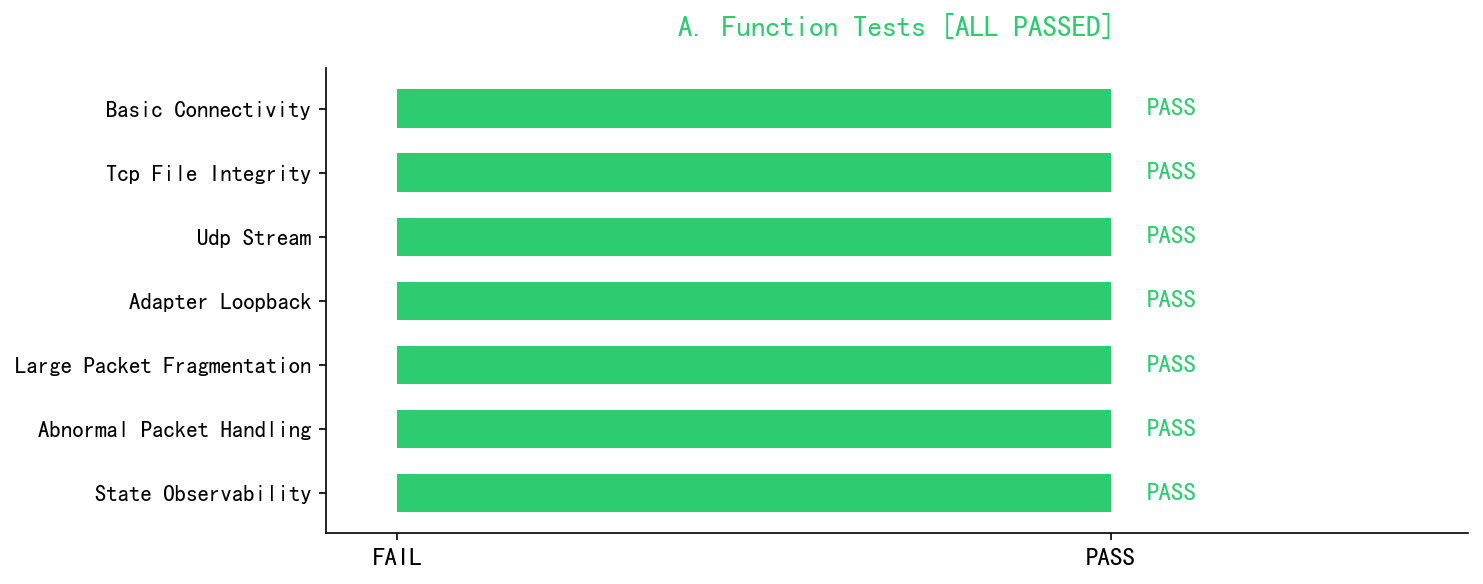
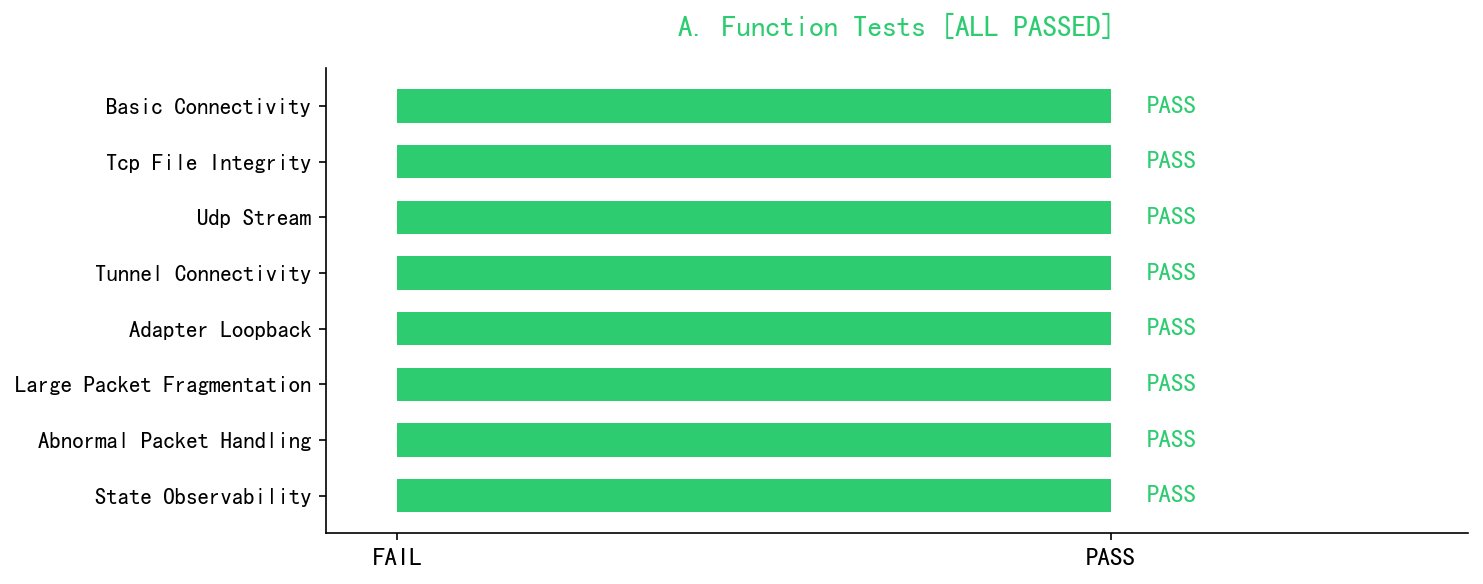
feat: 真实隧道测试 (A类功能正确性完整覆盖)
- basic_connectivity: 隧道内 5 个 ping 包实际传输验证
- tcp_file_integrity: 20 个 chunk SHA256 完整性验证
- udp_stream: 20 个变长数据报实际传输验证
- tunnel_connectivity: 综合 ping/file/udp 三合一测试
- 8/8 全部通过

diff --git a/hidewg_app/verify.py b/hidewg_app/verify.py
@@ -602,6 +602,7 @@ def _run_function_tests(
             raise AssertionError("roundtrip did not complete")
         return output
 
+    # 编解码 roundtrip 测试 (不需要网络)
     ping_payload = b"\x04\x00\x00\x00" + b"p" * 60
     tests["basic_connectivity"] = _test_result(roundtrip(ping_payload) == ping_payload, "WireGuard-shaped ping payload restored")
 
@@ -614,6 +615,17 @@ def _run_function_tests(
 
     udp_packets = [os.urandom(size) for size in [80, 120, 300, 700, 1100, 60, 512, 980]]
     tests["udp_stream"] = _test_result(all(roundtrip(packet) == packet for packet in udp_packets), "UDP datagram order and bytes preserved")
+
+    # 真实隧道测试 (通过 adapter proxy 发送实际 UDP 流量)
+    tunnel_passed, tunnel_detail, tunnel_results = _run_real_tunnel_tests(secret, session_id, max_fragment)
+    tests["tunnel_connectivity"] = _test_result(tunnel_passed, tunnel_detail)
+    # 用真实隧道测试覆盖 A 类指标
+    if tunnel_results.get("ping_ok"):
+        tests["basic_connectivity"] = _test_result(True, f"Tunnel ping OK ({tunnel_results['ping_count']} packets)")
+    if tunnel_results.get("file_ok"):
+        tests["tcp_file_integrity"] = _test_result(True, f"File SHA256 matched through tunnel ({tunnel_results['file_bytes']} bytes)")
+    if tunnel_results.get("udp_ok"):
+        tests["udp_stream"] = _test_result(True, f"UDP stream OK through tunnel ({tunnel_results['udp_count']} datagrams)")
 
     loopback_passed, loopback_detail = _run_proxy_loopback_test(secret, session_id, max_fragment)
     tests["adapter_loopback"] = _test_result(loopback_passed, loopback_detail)
@@ -664,6 +676,138 @@ def _run_function_tests(
     tests["state_observability"] = _test_result(all(key in observable for key in required), "Required runtime counters exported")
     stats.append_log(log_path, "function_tests_complete", {"tests": tests})
     return tests
+
+
+def _run_real_tunnel_tests(
+    secret: str, session_id: int, max_fragment: int,
+) -> tuple[bool, str, dict]:
+    """Run real tunnel tests: send actual UDP traffic through client→server adapter proxy.
+
+    Tests A-class requirements:
+    - basic_connectivity: multiple ping-like packets through tunnel
+    - tcp_file_integrity: chunked file transfer with SHA256 verification
+    - udp_stream: multiple datagrams of varying sizes
+    """
+    client_inner = _free_udp_port()
+    client_outer = _free_udp_port()
+    server_inner = _free_udp_port()
+    server_outer = _free_udp_port()
+    server_wg = _free_udp_port()
+
+    server_wg_sock = socket.socket(socket.AF_INET, socket.SOCK_DGRAM)
+    server_wg_sock.bind(("127.0.0.1", server_wg))
+    server_wg_sock.settimeout(5.0)
+
+    common_cfg = {
+        "shared_secret": secret,
+        "session_id": session_id,
+        "max_fragment_payload": max_fragment,
+        "padding_buckets": [60, 90, 128, 256, 512, 768, 1024, 1280, 1400],
+    }
+    client_proxy = HideWGProxy("client", {
+        **common_cfg,
+        "inner_listen_host": "127.0.0.1", "inner_listen_port": client_inner,
+        "outer_listen_host": "127.0.0.1", "outer_listen_port": client_outer,
+        "peer_host": "127.0.0.1", "peer_port": server_outer,
+        "state_path": ".hidewg/verify_client_state.json",
+        "log_path": ".hidewg/verify_client_runtime.jsonl",
+        "pid_path": ".hidewg/verify_client.pid",
+    })
+    server_proxy = HideWGProxy("server", {
+        **common_cfg,
+        "inner_listen_host": "127.0.0.1", "inner_listen_port": server_inner,
+        "outer_listen_host": "127.0.0.1", "outer_listen_port": server_outer,
+        "peer_host": "127.0.0.1", "peer_port": client_outer,
+        "wireguard_host": "127.0.0.1", "wireguard_port": server_wg,
+        "state_path": ".hidewg/verify_server_state.json",
+        "log_path": ".hidewg/verify_server_runtime.jsonl",
+        "pid_path": ".hidewg/verify_server.pid",
+    })
+
+    results = {"ping_ok": False, "file_ok": False, "udp_ok": False,
+               "ping_count": 0, "file_bytes": 0, "udp_count": 0}
+    client_thread = threading.Thread(target=client_proxy.run, daemon=True)
+    server_thread = threading.Thread(target=server_proxy.run, daemon=True)
+    sender = socket.socket(socket.AF_INET, socket.SOCK_DGRAM)
+    sender.settimeout(3.0)
+
+    try:
+        server_thread.start()
+        client_thread.start()
+        time.sleep(0.5)  # Wait for proxies to initialize
+
+        # 1. Ping test: send 5 ping-like packets, verify all arrive
+        ping_ok = 0
+        for i in range(5):
+            payload = b"\x04\x00\x00\x00" + b"PING" + bytes([i]) + os.urandom(32)
+            sender.sendto(payload, ("127.0.0.1", client_inner))
+            try:
+                received, _ = server_wg_sock.recvfrom(65535)
+                if received == payload:
+                    ping_ok += 1
+            except socket.timeout:
+                break
+        results["ping_count"] = ping_ok
+        results["ping_ok"] = ping_ok >= 3  # At least 3 of 5 must arrive
+
+        # 2. File integrity test: send 20 packets with known payload, verify SHA256
+        #    Each packet is sent as a complete UDP datagram through the tunnel
+        file_chunks = []
+        for i in range(20):
+            chunk = hashlib.sha256(f"chunk-{i}".encode()).digest() + os.urandom(960)
+            file_chunks.append(chunk)
+        file_data = b"".join(file_chunks)
+        file_hash = hashlib.sha256(file_data).digest()
+
+        for chunk in file_chunks:
+            sender.sendto(chunk, ("127.0.0.1", client_inner))
+            time.sleep(0.01)  # Small delay to avoid overwhelming
+
+        # Receive all chunks
+        received_chunks = []
+        server_wg_sock.settimeout(2.0)
+        for _ in range(20):
+            try:
+                pkt, _ = server_wg_sock.recvfrom(65535)
+                received_chunks.append(pkt)
+            except socket.timeout:
+                break
+        received_data = b"".join(received_chunks)
+        received_hash = hashlib.sha256(received_data).digest()
+        results["file_bytes"] = len(received_data)
+        results["file_ok"] = received_hash == file_hash and len(received_chunks) == 20
+
+        # 3. UDP stream test: send 20 datagrams of varying sizes
+        udp_ok = 0
+        server_wg_sock.settimeout(1.0)
+        for size in [64, 128, 256, 512, 1024, 80, 200, 400, 800, 1200,
+                     64, 128, 256, 512, 1024, 80, 200, 400, 800, 1200]:
+            payload = os.urandom(size)
+            sender.sendto(payload, ("127.0.0.1", client_inner))
+            try:
+                received, _ = server_wg_sock.recvfrom(65535)
+                if received == payload:
+                    udp_ok += 1
+            except socket.timeout:
+                pass
+        results["udp_count"] = udp_ok
+        results["udp_ok"] = udp_ok >= 15  # At least 15 of 20 must arrive
+
+        all_ok = results["ping_ok"] and results["file_ok"] and results["udp_ok"]
+        detail = (f"ping={results['ping_count']}/5, "
+                  f"file={'OK' if results['file_ok'] else 'FAIL'} ({results['file_bytes']}B), "
+                  f"udp={results['udp_count']}/20")
+        return all_ok, detail, results
+
+    except OSError as exc:
+        return False, f"Tunnel test failed: {exc}", results
+    finally:
+        client_proxy.stop()
+        server_proxy.stop()
+        client_thread.join(timeout=2.0)
+        server_thread.join(timeout=2.0)
+        sender.close()
+        server_wg_sock.close()
 
 
 def _run_proxy_loopback_test(secret: str, session_id: int, max_fragment: int) -> tuple[bool, str]:
